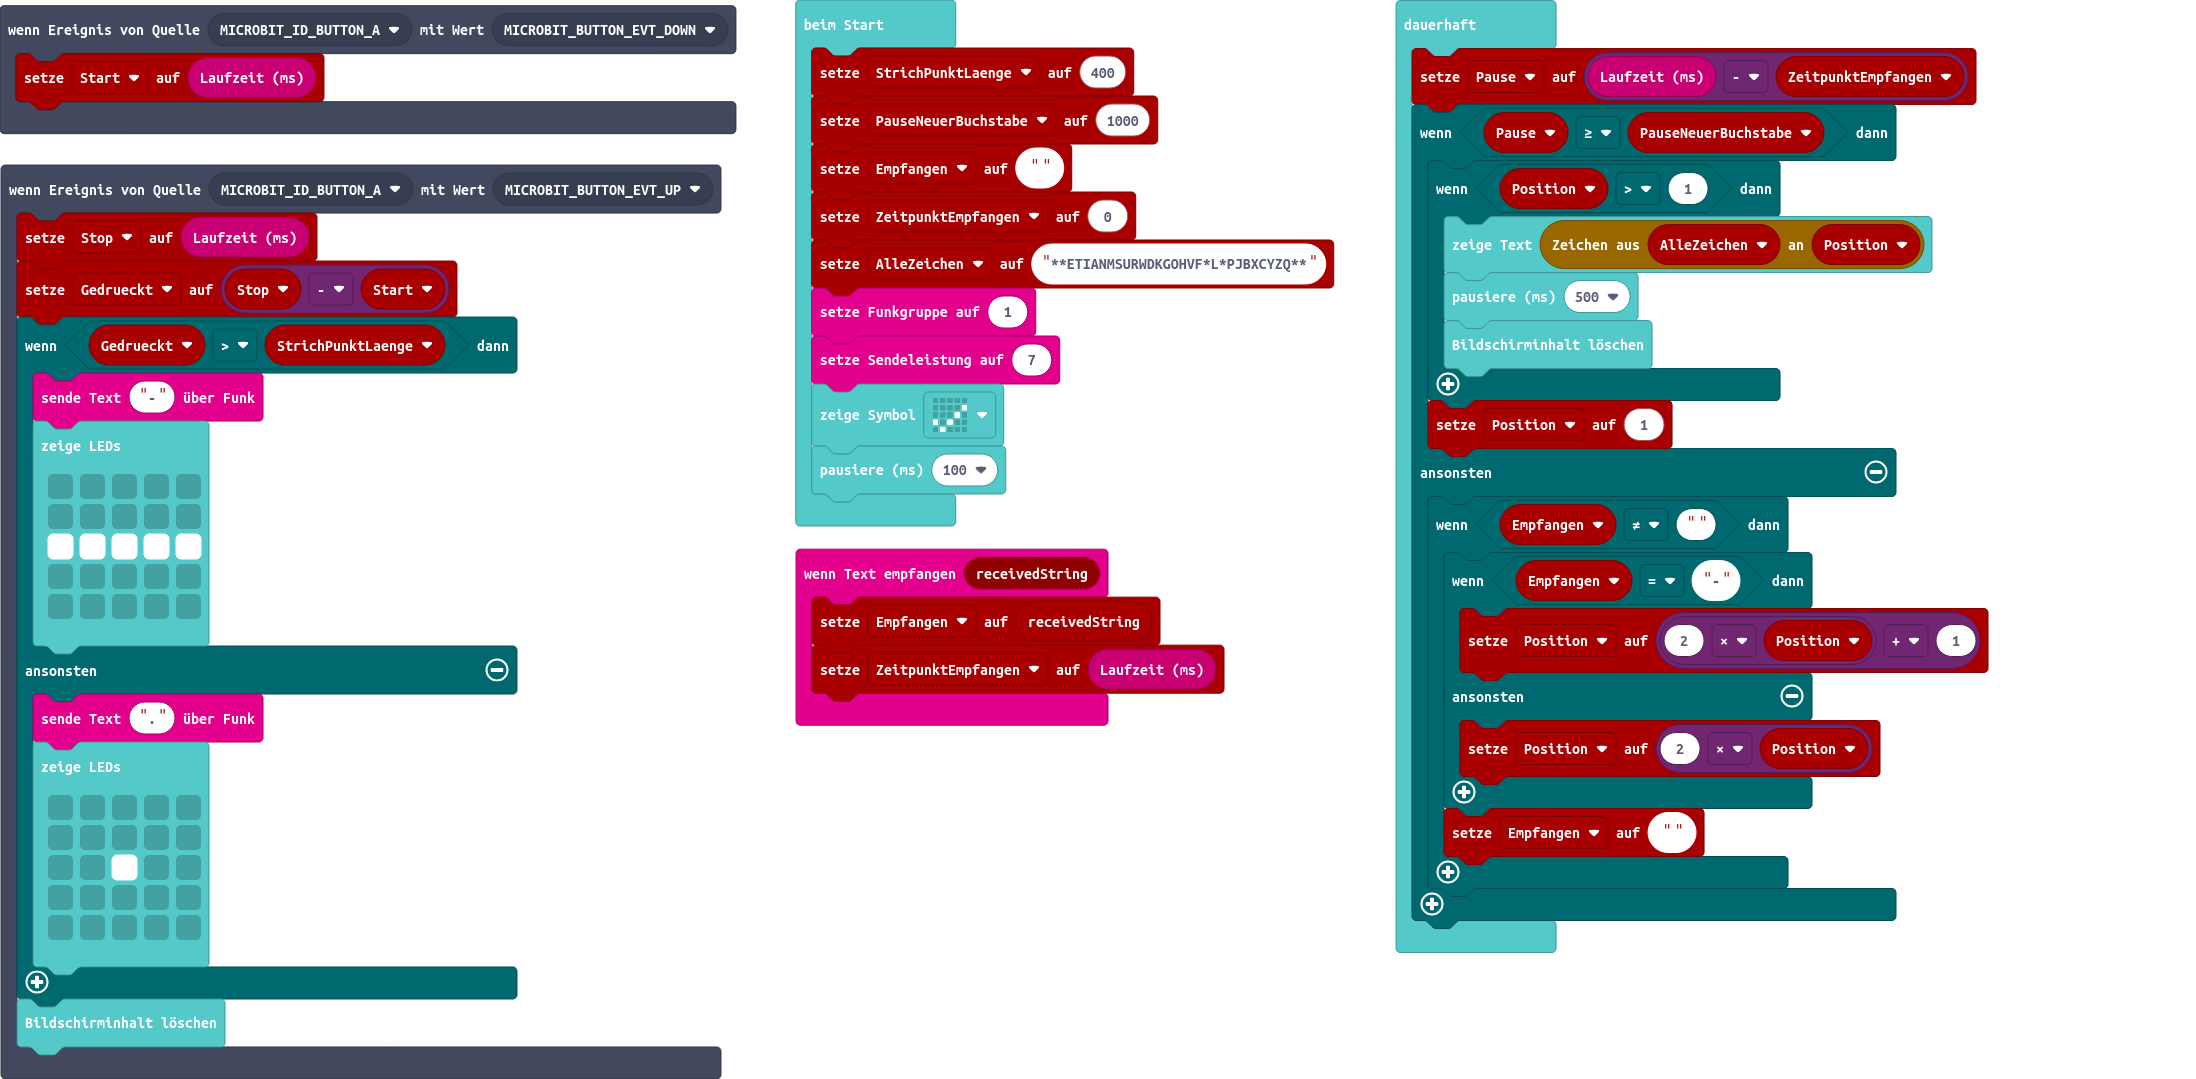
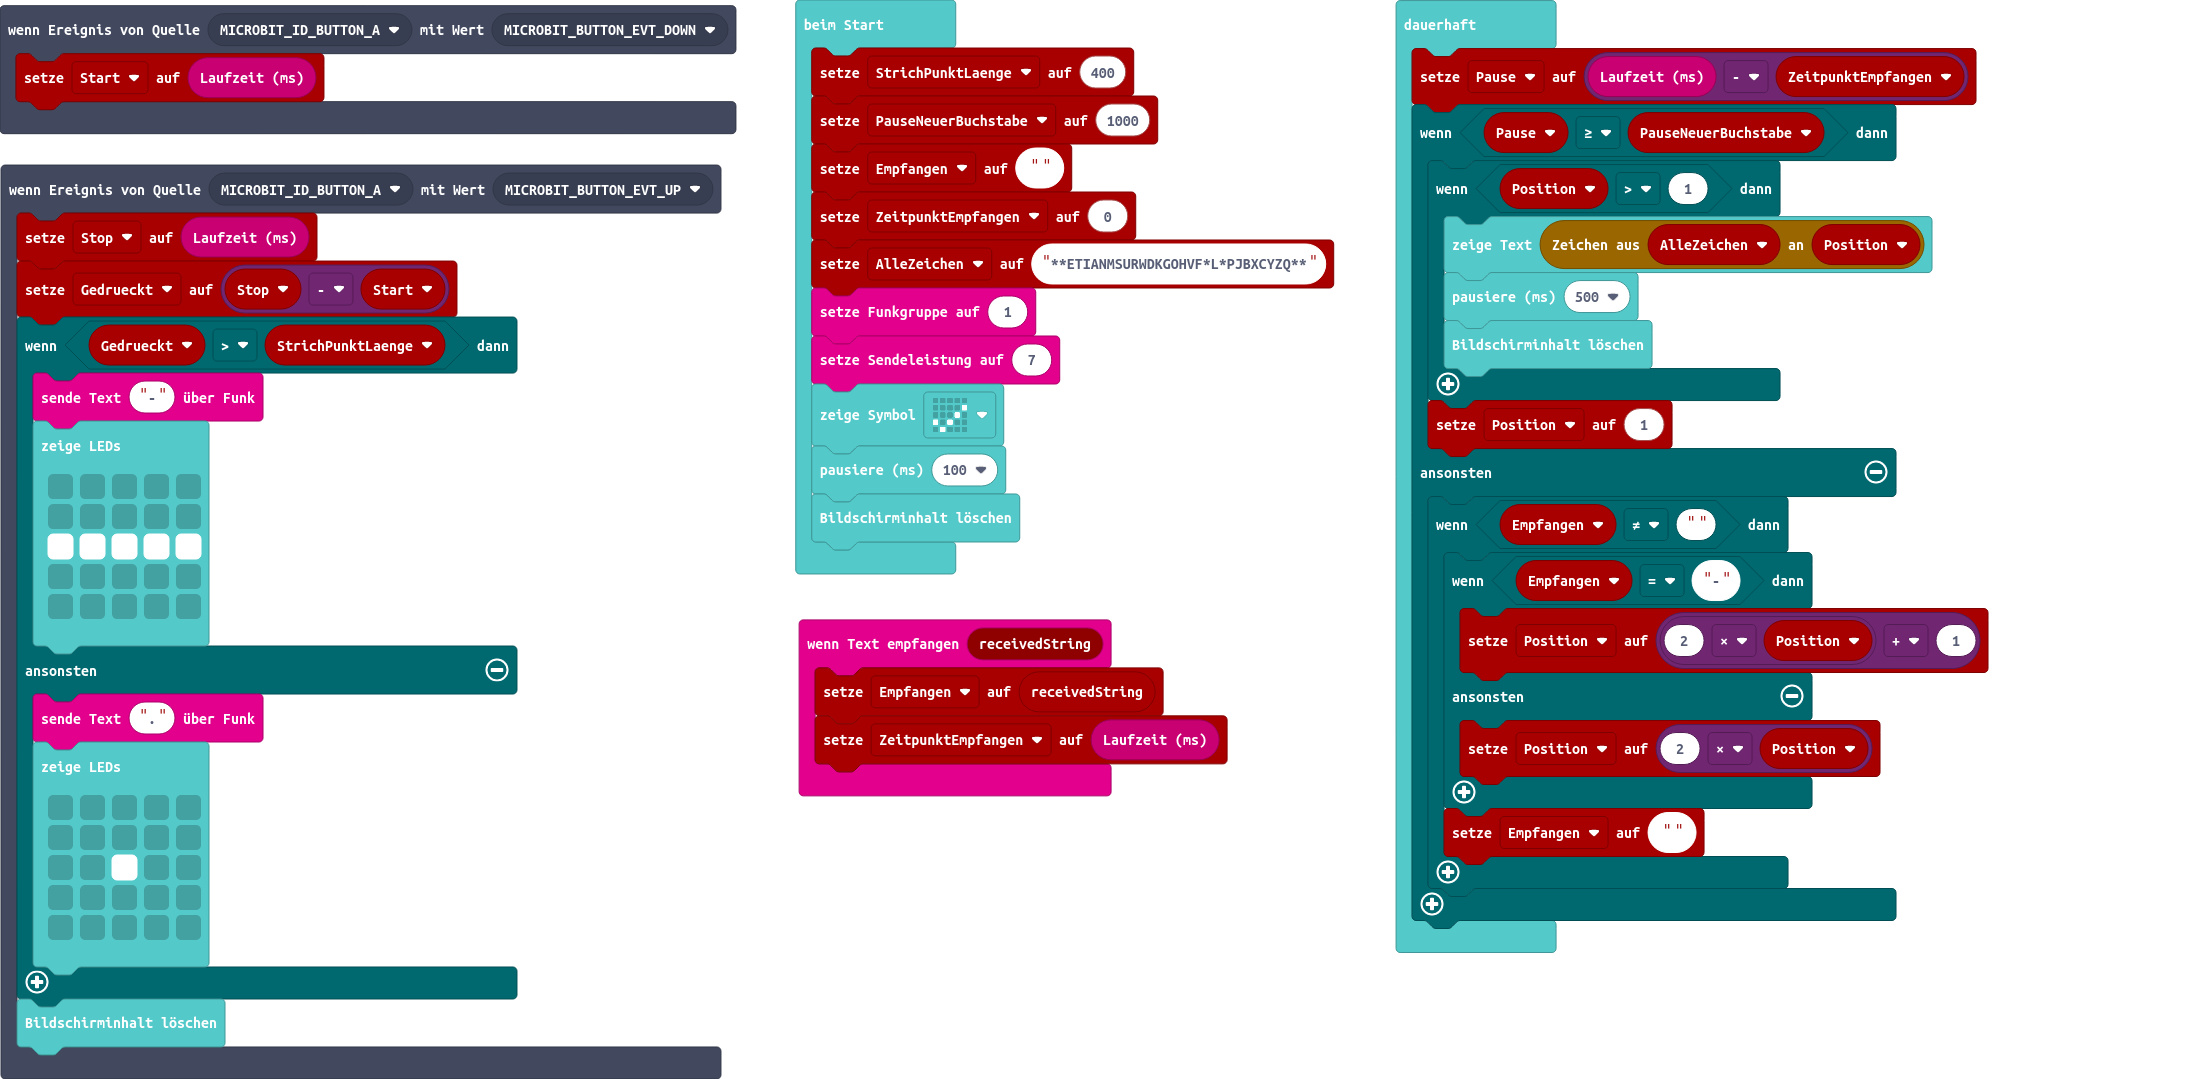
Aktualisiere main.blocks, main.ts

Changed region(s): [[0.3406, 0.4588, 0.5574, 0.7646]]

diff --git a/main.ts b/main.ts
@@ -46,6 +46,7 @@ radio.setGroup(1)
 radio.setTransmitPower(7)
 basic.showIcon(IconNames.Yes)
 basic.pause(100)
+basic.clearScreen()
 basic.forever(function () {
     Pause = input.runningTime() - ZeitpunktEmpfangen
     if (Pause >= PauseNeuerBuchstabe) {
